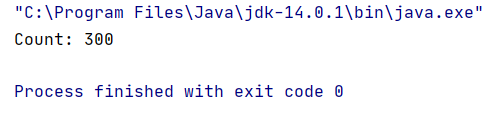
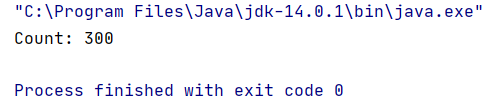
add issue13

Changed region(s): [[0.0306, 0.0283, 1.0, 0.1981], [0.0306, 0.7358, 0.7041, 0.9057], [0.0306, 0.283, 0.2449, 0.4245]]

diff --git a/src/main/java/my/issues/issue13/README.md b/src/main/java/my/issues/issue13/README.md
@@ -1,3 +1,3 @@
 ## Issue13
-![output13](images/issue13.PNG)
+![output13](images/issue13.png)
 </br>
